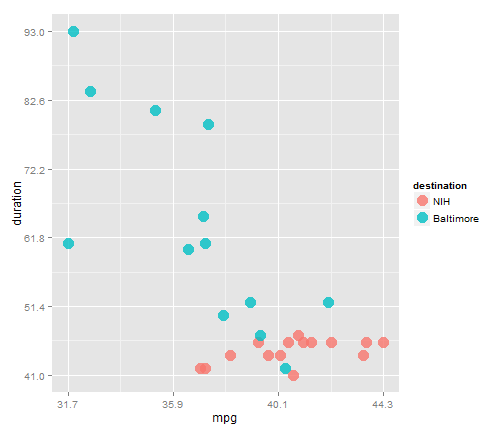
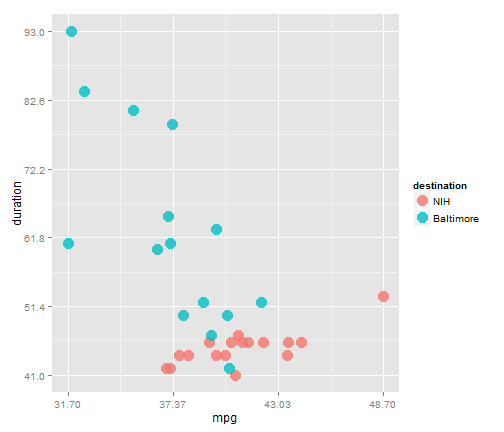
update 48.7 mpg, woot

diff --git a/readMe.md b/readMe.md
@@ -14,6 +14,9 @@ Without facetting:
 
 ![plot of chunk unnamed-chunk-3](figure/unnamed-chunk-3.png) 
 
+Stray Observations:
+ 
+ _The Slow Burn_ was a success!  I kept it 55 the whole way and broke the 45 MPG barrier with 48.7.  Next goal is 50 MPG.
 
 
 Check out the .Rmd file to see code on how to read spreadsheets from Google Drive into R!  Many thanks to [Andrie de Vries and David Smith.](http://blog.revolutionanalytics.com/2014/06/reading-data-from-the-new-version-of-google-spreadsheets.html
